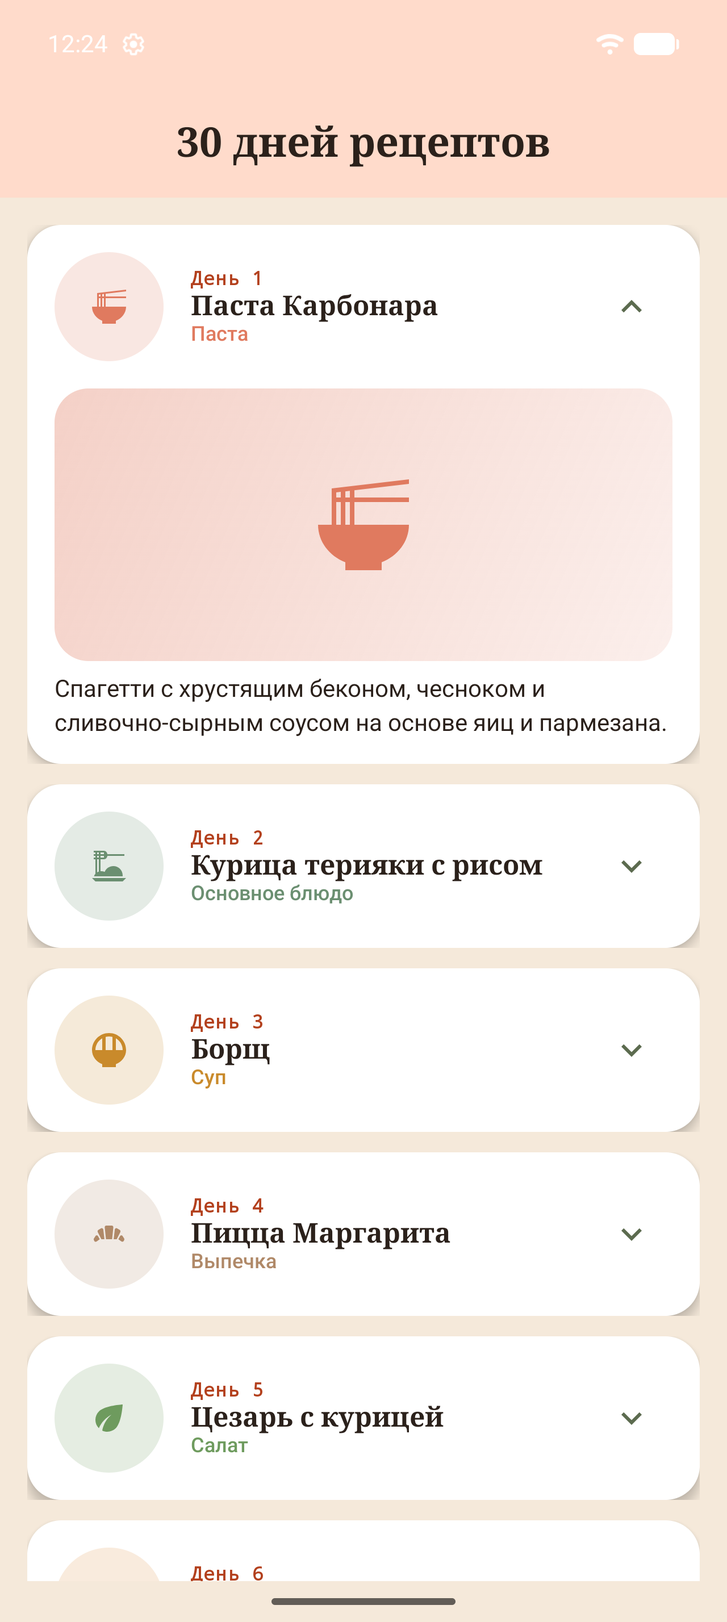
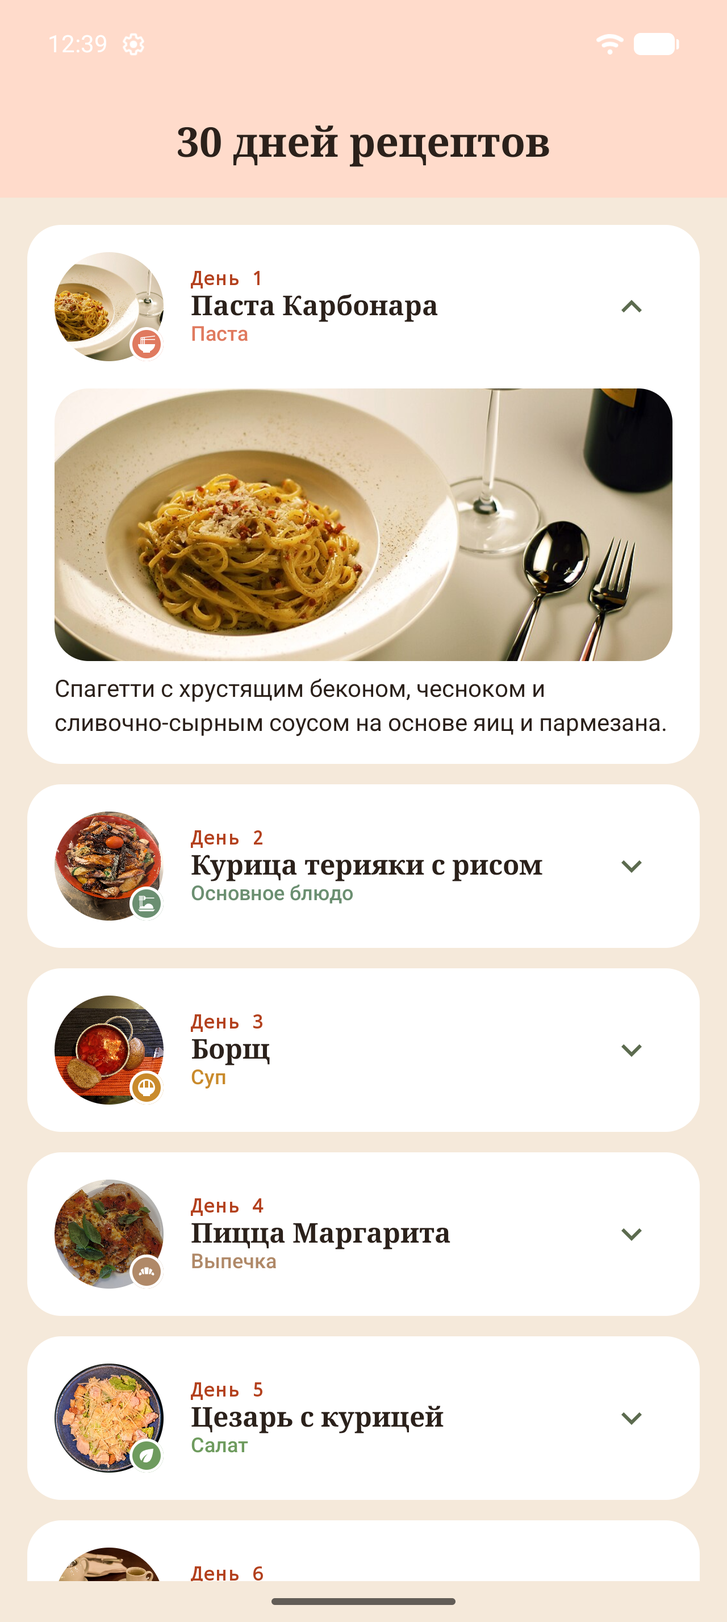
Remove card shadows, use real recipe photos from Wikimedia Commons
Set card elevation to 0dp so surfaces separate from the background
through color contrast alone instead of drop shadows.

Replace the category icon placeholders with real photos: download one
freely licensed (public domain/CC0/CC-BY/CC-BY-SA) photo per recipe
from Wikimedia Commons into drawable-nodpi, add imageResId to Recipe,
and show it as a circular thumbnail (with a small category icon badge)
in the collapsed row and full-width in the expanded view. Sources and
authors are recorded in PHOTO_ATTRIBUTIONS.md.

diff --git a/app/src/main/java/com/example/knrtu_mobile_systems/MainActivity.kt b/app/src/main/java/com/example/knrtu_mobile_systems/MainActivity.kt
@@ -7,13 +7,14 @@ import androidx.compose.animation.animateContentSize
 import androidx.compose.animation.core.Spring
 import androidx.compose.animation.core.animateFloatAsState
 import androidx.compose.animation.core.spring
+import androidx.compose.foundation.Image
 import androidx.compose.foundation.background
+import androidx.compose.foundation.border
 import androidx.compose.foundation.layout.Arrangement
 import androidx.compose.foundation.layout.Box
 import androidx.compose.foundation.layout.Column
 import androidx.compose.foundation.layout.PaddingValues
 import androidx.compose.foundation.layout.Row
-import androidx.compose.foundation.layout.Spacer
 import androidx.compose.foundation.layout.fillMaxSize
 import androidx.compose.foundation.layout.fillMaxWidth
 import androidx.compose.foundation.layout.height
@@ -44,8 +45,10 @@ import androidx.compose.ui.Alignment
 import androidx.compose.ui.Modifier
 import androidx.compose.ui.draw.clip
 import androidx.compose.ui.draw.rotate
-import androidx.compose.ui.graphics.Brush
+import androidx.compose.ui.graphics.Color
+import androidx.compose.ui.layout.ContentScale
 import androidx.compose.ui.res.dimensionResource
+import androidx.compose.ui.res.painterResource
 import androidx.compose.ui.res.stringResource
 import androidx.compose.ui.text.font.FontWeight
 import androidx.compose.ui.tooling.preview.Preview
@@ -106,7 +109,7 @@ fun RecipesApp() {
 
 /**
  * Expandable list item for a single day's recipe: a thumbnail, day/name/category always
- * visible, and a bigger picture plus the recipe description revealed on tap.
+ * visible, and a bigger photo plus the recipe description revealed on tap.
  */
 @Composable
 fun RecipeListItem(
@@ -119,6 +122,7 @@ fun RecipeListItem(
         label = "expandArrowRotation"
     )
 
+    // Flat card: no shadow, cards read against the background purely through color contrast.
     Card(
         modifier = modifier
             .fillMaxWidth()
@@ -130,7 +134,7 @@ fun RecipeListItem(
             ),
         shape = MaterialTheme.shapes.medium,
         colors = CardDefaults.cardColors(containerColor = MaterialTheme.colorScheme.surface),
-        elevation = CardDefaults.cardElevation(defaultElevation = 4.dp)
+        elevation = CardDefaults.cardElevation(defaultElevation = 0.dp)
     ) {
         Column(
             modifier = Modifier.padding(dimensionResource(R.dimen.padding_medium))
@@ -172,7 +176,7 @@ fun RecipeListItem(
                 }
             }
             if (expanded) {
-                RecipeBanner(
+                RecipePhoto(
                     recipe = recipe,
                     modifier = Modifier.padding(top = dimensionResource(R.dimen.padding_medium))
                 )
@@ -188,64 +192,74 @@ fun RecipeListItem(
 }
 
 /**
- * Small round "picture" of the dish shown in the collapsed row, tinted by its category.
+ * Round photo of the dish shown in the collapsed row, with a small category badge overlaid.
  */
 @Composable
 fun RecipeThumbnail(
     recipe: Recipe,
     modifier: Modifier = Modifier
 ) {
-    Box(
-        modifier = modifier
-            .size(dimensionResource(R.dimen.image_size))
-            .background(
-                color = recipe.category.color.copy(alpha = 0.18f),
-                shape = CircleShape
-            ),
-        contentAlignment = Alignment.Center
-    ) {
-        Icon(
-            imageVector = recipe.category.icon,
+    Box(modifier = modifier.size(dimensionResource(R.dimen.image_size))) {
+        Image(
+            painter = painterResource(recipe.imageResId),
             contentDescription = stringResource(
                 R.string.recipe_image_content_description,
                 stringResource(recipe.nameResId)
             ),
-            tint = recipe.category.color
+            contentScale = ContentScale.Crop,
+            modifier = Modifier
+                .fillMaxSize()
+                .clip(CircleShape)
+        )
+        CategoryBadge(
+            recipe = recipe,
+            modifier = Modifier.align(Alignment.BottomEnd)
         )
     }
 }
 
 /**
- * Large "picture" banner shown when a recipe is expanded.
+ * Large photo of the dish shown when a recipe is expanded.
  */
 @Composable
-fun RecipeBanner(
+fun RecipePhoto(
+    recipe: Recipe,
+    modifier: Modifier = Modifier
+) {
+    Image(
+        painter = painterResource(recipe.imageResId),
+        contentDescription = stringResource(
+            R.string.recipe_image_content_description,
+            stringResource(recipe.nameResId)
+        ),
+        contentScale = ContentScale.Crop,
+        modifier = modifier
+            .fillMaxWidth()
+            .height(dimensionResource(R.dimen.recipe_banner_height))
+            .clip(MaterialTheme.shapes.medium)
+    )
+}
+
+/**
+ * Small colored circle with the category icon, used as a badge on top of a recipe photo.
+ */
+@Composable
+fun CategoryBadge(
     recipe: Recipe,
     modifier: Modifier = Modifier
 ) {
     Box(
         modifier = modifier
-            .fillMaxWidth()
-            .height(dimensionResource(R.dimen.recipe_banner_height))
-            .clip(MaterialTheme.shapes.medium)
-            .background(
-                Brush.linearGradient(
-                    colors = listOf(
-                        recipe.category.color.copy(alpha = 0.35f),
-                        recipe.category.color.copy(alpha = 0.12f)
-                    )
-                )
-            ),
+            .size(20.dp)
+            .background(color = recipe.category.color, shape = CircleShape)
+            .border(1.5.dp, MaterialTheme.colorScheme.surface, CircleShape),
         contentAlignment = Alignment.Center
     ) {
         Icon(
             imageVector = recipe.category.icon,
-            contentDescription = stringResource(
-                R.string.recipe_image_content_description,
-                stringResource(recipe.nameResId)
-            ),
-            tint = recipe.category.color,
-            modifier = Modifier.size(64.dp)
+            contentDescription = null,
+            tint = Color.White,
+            modifier = Modifier.size(12.dp)
         )
     }
 }

diff --git a/app/src/main/java/com/example/knrtu_mobile_systems/data/Datasource.kt b/app/src/main/java/com/example/knrtu_mobile_systems/data/Datasource.kt
@@ -12,34 +12,34 @@ import com.example.knrtu_mobile_systems.model.RecipeCategory.SALAD
 import com.example.knrtu_mobile_systems.model.RecipeCategory.SOUP
 
 val recipes = listOf(
-    Recipe(1, R.string.recipe_name_1, R.string.recipe_description_1, PASTA),
-    Recipe(2, R.string.recipe_name_2, R.string.recipe_description_2, MAIN),
-    Recipe(3, R.string.recipe_name_3, R.string.recipe_description_3, SOUP),
-    Recipe(4, R.string.recipe_name_4, R.string.recipe_description_4, BAKING),
-    Recipe(5, R.string.recipe_name_5, R.string.recipe_description_5, SALAD),
-    Recipe(6, R.string.recipe_name_6, R.string.recipe_description_6, BREAKFAST),
-    Recipe(7, R.string.recipe_name_7, R.string.recipe_description_7, MAIN),
-    Recipe(8, R.string.recipe_name_8, R.string.recipe_description_8, SOUP),
-    Recipe(9, R.string.recipe_name_9, R.string.recipe_description_9, PASTA),
-    Recipe(10, R.string.recipe_name_10, R.string.recipe_description_10, BREAKFAST),
-    Recipe(11, R.string.recipe_name_11, R.string.recipe_description_11, MAIN),
-    Recipe(12, R.string.recipe_name_12, R.string.recipe_description_12, SOUP),
-    Recipe(13, R.string.recipe_name_13, R.string.recipe_description_13, SALAD),
-    Recipe(14, R.string.recipe_name_14, R.string.recipe_description_14, DESSERT),
-    Recipe(15, R.string.recipe_name_15, R.string.recipe_description_15, PASTA),
-    Recipe(16, R.string.recipe_name_16, R.string.recipe_description_16, MAIN),
-    Recipe(17, R.string.recipe_name_17, R.string.recipe_description_17, BREAKFAST),
-    Recipe(18, R.string.recipe_name_18, R.string.recipe_description_18, MAIN),
-    Recipe(19, R.string.recipe_name_19, R.string.recipe_description_19, SOUP),
-    Recipe(20, R.string.recipe_name_20, R.string.recipe_description_20, FASTFOOD),
-    Recipe(21, R.string.recipe_name_21, R.string.recipe_description_21, PASTA),
-    Recipe(22, R.string.recipe_name_22, R.string.recipe_description_22, MAIN),
-    Recipe(23, R.string.recipe_name_23, R.string.recipe_description_23, SALAD),
-    Recipe(24, R.string.recipe_name_24, R.string.recipe_description_24, BREAKFAST),
-    Recipe(25, R.string.recipe_name_25, R.string.recipe_description_25, MAIN),
-    Recipe(26, R.string.recipe_name_26, R.string.recipe_description_26, BAKING),
-    Recipe(27, R.string.recipe_name_27, R.string.recipe_description_27, MAIN),
-    Recipe(28, R.string.recipe_name_28, R.string.recipe_description_28, DESSERT),
-    Recipe(29, R.string.recipe_name_29, R.string.recipe_description_29, FASTFOOD),
-    Recipe(30, R.string.recipe_name_30, R.string.recipe_description_30, MAIN),
+    Recipe(1, R.string.recipe_name_1, R.string.recipe_description_1, R.drawable.recipe_photo_1, PASTA),
+    Recipe(2, R.string.recipe_name_2, R.string.recipe_description_2, R.drawable.recipe_photo_2, MAIN),
+    Recipe(3, R.string.recipe_name_3, R.string.recipe_description_3, R.drawable.recipe_photo_3, SOUP),
+    Recipe(4, R.string.recipe_name_4, R.string.recipe_description_4, R.drawable.recipe_photo_4, BAKING),
+    Recipe(5, R.string.recipe_name_5, R.string.recipe_description_5, R.drawable.recipe_photo_5, SALAD),
+    Recipe(6, R.string.recipe_name_6, R.string.recipe_description_6, R.drawable.recipe_photo_6, BREAKFAST),
+    Recipe(7, R.string.recipe_name_7, R.string.recipe_description_7, R.drawable.recipe_photo_7, MAIN),
+    Recipe(8, R.string.recipe_name_8, R.string.recipe_description_8, R.drawable.recipe_photo_8, SOUP),
+    Recipe(9, R.string.recipe_name_9, R.string.recipe_description_9, R.drawable.recipe_photo_9, PASTA),
+    Recipe(10, R.string.recipe_name_10, R.string.recipe_description_10, R.drawable.recipe_photo_10, BREAKFAST),
+    Recipe(11, R.string.recipe_name_11, R.string.recipe_description_11, R.drawable.recipe_photo_11, MAIN),
+    Recipe(12, R.string.recipe_name_12, R.string.recipe_description_12, R.drawable.recipe_photo_12, SOUP),
+    Recipe(13, R.string.recipe_name_13, R.string.recipe_description_13, R.drawable.recipe_photo_13, SALAD),
+    Recipe(14, R.string.recipe_name_14, R.string.recipe_description_14, R.drawable.recipe_photo_14, DESSERT),
+    Recipe(15, R.string.recipe_name_15, R.string.recipe_description_15, R.drawable.recipe_photo_15, PASTA),
+    Recipe(16, R.string.recipe_name_16, R.string.recipe_description_16, R.drawable.recipe_photo_16, MAIN),
+    Recipe(17, R.string.recipe_name_17, R.string.recipe_description_17, R.drawable.recipe_photo_17, BREAKFAST),
+    Recipe(18, R.string.recipe_name_18, R.string.recipe_description_18, R.drawable.recipe_photo_18, MAIN),
+    Recipe(19, R.string.recipe_name_19, R.string.recipe_description_19, R.drawable.recipe_photo_19, SOUP),
+    Recipe(20, R.string.recipe_name_20, R.string.recipe_description_20, R.drawable.recipe_photo_20, FASTFOOD),
+    Recipe(21, R.string.recipe_name_21, R.string.recipe_description_21, R.drawable.recipe_photo_21, PASTA),
+    Recipe(22, R.string.recipe_name_22, R.string.recipe_description_22, R.drawable.recipe_photo_22, MAIN),
+    Recipe(23, R.string.recipe_name_23, R.string.recipe_description_23, R.drawable.recipe_photo_23, SALAD),
+    Recipe(24, R.string.recipe_name_24, R.string.recipe_description_24, R.drawable.recipe_photo_24, BREAKFAST),
+    Recipe(25, R.string.recipe_name_25, R.string.recipe_description_25, R.drawable.recipe_photo_25, MAIN),
+    Recipe(26, R.string.recipe_name_26, R.string.recipe_description_26, R.drawable.recipe_photo_26, BAKING),
+    Recipe(27, R.string.recipe_name_27, R.string.recipe_description_27, R.drawable.recipe_photo_27, MAIN),
+    Recipe(28, R.string.recipe_name_28, R.string.recipe_description_28, R.drawable.recipe_photo_28, DESSERT),
+    Recipe(29, R.string.recipe_name_29, R.string.recipe_description_29, R.drawable.recipe_photo_29, FASTFOOD),
+    Recipe(30, R.string.recipe_name_30, R.string.recipe_description_30, R.drawable.recipe_photo_30, MAIN),
 )

diff --git a/app/src/main/java/com/example/knrtu_mobile_systems/model/Recipe.kt b/app/src/main/java/com/example/knrtu_mobile_systems/model/Recipe.kt
@@ -1,5 +1,6 @@
 package com.example.knrtu_mobile_systems.model
 
+import androidx.annotation.DrawableRes
 import androidx.annotation.StringRes
 import androidx.compose.material.icons.Icons
 import androidx.compose.material.icons.filled.BakeryDining
@@ -41,5 +42,6 @@ data class Recipe(
     val day: Int,
     @StringRes val nameResId: Int,
     @StringRes val descriptionResId: Int,
+    @DrawableRes val imageResId: Int,
     val category: RecipeCategory
 )

diff --git a/reports/Unit 3/Pathway3/Project Create a 30 Days App/PHOTO_ATTRIBUTIONS.md b/reports/Unit 3/Pathway3/Project Create a 30 Days App/PHOTO_ATTRIBUTIONS.md
@@ -1,0 +1,39 @@
+# Источники фотографий рецептов
+
+Все 30 фотографий (`app/src/main/res/drawable-nodpi/recipe_photo_1.jpg` … `recipe_photo_30.jpg`)
+загружены с [Wikimedia Commons](https://commons.wikimedia.org) — файлы там размещаются только
+на условиях свободных лицензий (Public domain, CC0, CC BY, CC BY-SA), что подходит для учебного
+некоммерческого проекта. Ниже — источник и автор каждой фотографии.
+
+| День | Файл | Название на Commons | Автор | Лицензия | Источник |
+|---|---|---|---|---|---|
+| 1 | recipe_photo_1.jpg | File:Spaghetti alla Carbonara.jpg | Mattes Boch (Mboch on English Wikipedia) | Public domain | [Wikimedia Commons](https://commons.wikimedia.org/wiki/File:Spaghetti_alla_Carbonara.jpg) |
+| 2 | recipe_photo_2.jpg | File:Donburi Rice bowl of Chicken Teriyaki with Tomato.jpg | TechnoKittyCat | CC0 | [Wikimedia Commons](https://commons.wikimedia.org/wiki/File:Donburi_Rice_bowl_of_Chicken_Teriyaki_with_Tomato.jpg) |
+| 3 | recipe_photo_3.jpg | File:Borscht, Rostov-on-Don, Russia.jpg | Vyacheslav Argenberg | CC BY 4.0 | [Wikimedia Commons](https://commons.wikimedia.org/wiki/File:Borscht,_Rostov-on-Don,_Russia.jpg) |
+| 4 | recipe_photo_4.jpg | File:Margherita pizza on plate.jpg | Shisma | CC BY 4.0 | [Wikimedia Commons](https://commons.wikimedia.org/wiki/File:Margherita_pizza_on_plate.jpg) |
+| 5 | recipe_photo_5.jpg | File:Caesar salad with chicken, homemade - Massachusetts.jpg | Daderot | CC0 | [Wikimedia Commons](https://commons.wikimedia.org/wiki/File:Caesar_salad_with_chicken,_homemade_-_Massachusetts.jpg) |
+| 6 | recipe_photo_6.jpg | File:Russian blini.jpg | Ninaras | CC BY 4.0 | [Wikimedia Commons](https://commons.wikimedia.org/wiki/File:Russian_blini.jpg) |
+| 7 | recipe_photo_7.jpg | File:Afghan Zamarod Palaw (Emerald Pilaf) with a side of Meat in Sour Cherry Sauce.jpg | Zimistani | CC0 | [Wikimedia Commons](https://commons.wikimedia.org/wiki/File:Afghan_Zamarod_Palaw_(Emerald_Pilaf)_%D8%B2%D9%85%D8%B1%D8%AF_%D9%BE%D9%84%D9%88_with_a_side_of_Meat_in_Sour_Cherry_Sauce.jpg) |
+| 8 | recipe_photo_8.jpg | File:Saizeriya cream of mushroom soup.jpg | Fumikas Sagisavas | CC0 | [Wikimedia Commons](https://commons.wikimedia.org/wiki/File:Saizeriya_cream_of_mushroom_soup.jpg) |
+| 9 | recipe_photo_9.jpg | File:Halal Beef Lasagne and Cauliflowers - Foodilic 2024-08-12.jpg | Andy Li | CC0 | [Wikimedia Commons](https://commons.wikimedia.org/wiki/File:Halal_Beef_Lasagne_and_Cauliflowers_-_Foodilic_2024-08-12.jpg) |
+| 10 | recipe_photo_10.jpg | File:Shakshuka (Unsplash).jpg | Jarosław Ceborski jarson | CC0 | [Wikimedia Commons](https://commons.wikimedia.org/wiki/File:Shakshuka_(Unsplash).jpg) |
+| 11 | recipe_photo_11.jpg | File:Kotlet z piersi kurczaka w panierce z ziemniakami i mizerią - 2025.02.08.jpg | Aw58 | CC BY 4.0 | [Wikimedia Commons](https://commons.wikimedia.org/wiki/File:Kotlet_z_piersi_kurczaka_w_panierce_z_ziemniakami_i_mizeri%C4%85_-_2025.02.08.jpg) |
+| 12 | recipe_photo_12.jpg | File:Mushrooms Tom Yum, Duck Pa-naeng, and Thai Jasmine Rice - Sawadee Thai Restaurant 2024-10-05.jpg | Andy Li | CC0 | [Wikimedia Commons](https://commons.wikimedia.org/wiki/File:Mushrooms_Tom_Yum,_Duck_Pa-naeng,_and_Thai_Jasmine_Rice_-_Sawadee_Thai_Restaurant_2024-10-05.jpg) |
+| 13 | recipe_photo_13.jpg | File:Greek Salad Choriatiki.jpg | zone41 (Flickr) | CC BY 2.0 | [Wikimedia Commons](https://commons.wikimedia.org/wiki/File:Greek_Salad_Choriatiki.jpg) |
+| 14 | recipe_photo_14.jpg | File:New York cheesecake 3.jpg | Muago | CC0 | [Wikimedia Commons](https://commons.wikimedia.org/wiki/File:New_York_cheesecake_3.jpg) |
+| 15 | recipe_photo_15.jpg | File:Pasta met zalm en rucola.jpg | Jw2c | Public domain | [Wikimedia Commons](https://commons.wikimedia.org/wiki/File:Pasta_met_zalm_en_rucola.jpg) |
+| 16 | recipe_photo_16.jpg | File:Child Care Recipes (Team Nutrition) (20211103-FNS-UNC-0009).jpg | USDAgov | Public domain | [Wikimedia Commons](https://commons.wikimedia.org/wiki/File:Child_Care_Recipes_(Team_Nutiriton)_(20211103-FNS-UNC-0009).jpg) |
+| 17 | recipe_photo_17.jpg | File:Syrniki with fruits.jpg | Off-shell | CC BY-SA 4.0 | [Wikimedia Commons](https://commons.wikimedia.org/wiki/File:Syrniki_with_fruits.jpg) |
+| 18 | recipe_photo_18.jpg | File:Goulash hungarian.jpg | RitaE | CC0 | [Wikimedia Commons](https://commons.wikimedia.org/wiki/File:Goulash_hungarian.jpg) |
+| 19 | recipe_photo_19.jpg | File:Soljanka with olives.jpg | Roland Geider (Ogre) | Public domain | [Wikimedia Commons](https://commons.wikimedia.org/wiki/File:Soljanka_with_olives.jpg) |
+| 20 | recipe_photo_20.jpg | File:Big Mac hamburger.jpg | Evan-Amos | CC0 | [Wikimedia Commons](https://commons.wikimedia.org/wiki/File:Big_Mac_hamburger.jpg) |
+| 21 | recipe_photo_21.jpg | File:Spaghetti Bolognese - Figaros, Brighton 2023-10-06.jpg | Andy Li | CC0 | [Wikimedia Commons](https://commons.wikimedia.org/wiki/File:Spaghetti_Bolognese_-_Figaros,_Brighton_2023-10-06.jpg) |
+| 22 | recipe_photo_22.jpg | File:Butterfly chicken with roasted vegetables - Massachusetts.jpg | Daderot | CC0 | [Wikimedia Commons](https://commons.wikimedia.org/wiki/File:Butterfly_chicken_with_roasted_vegetables_-_Massachusetts.jpg) |
+| 23 | recipe_photo_23.jpg | File:2023 Sałatka jarzynowa (1).jpg | Jacek Halicki | CC BY-SA 4.0 | [Wikimedia Commons](https://commons.wikimedia.org/wiki/File:2023_Sa%C5%82atka_jarzynowa_(1).jpg) |
+| 24 | recipe_photo_24.jpg | File:Cheese & Mushroom Omelette - The Bystander Cafe 2023-08-07.jpg | Andy Li | CC0 | [Wikimedia Commons](https://commons.wikimedia.org/wiki/File:Cheese_%26_Mushroom_Omelette_-_The_Bystander_Cafe_2023-08-07.jpg) |
+| 25 | recipe_photo_25.jpg | File:Matjes Sahne Kartoffeln Salat.JPG | Benreis | CC BY 3.0 | [Wikimedia Commons](https://commons.wikimedia.org/wiki/File:Matjes_Sahne_Kartoffeln_Salat.JPG) |
+| 26 | recipe_photo_26.jpg | File:Khachapuri Adjaruli with egg and butter 2016.jpg | Eugene Krasnaok | CC BY 4.0 | [Wikimedia Commons](https://commons.wikimedia.org/wiki/File:Khachapuri_Adjaruli_with_egg_and_butter_2016.jpg) |
+| 27 | recipe_photo_27.jpg | File:Mushroom and Leek Risotto (49535206656).jpg | spurekar | CC BY 2.0 | [Wikimedia Commons](https://commons.wikimedia.org/wiki/File:Mushroom_and_Leek_Risotto_(49535206656).jpg) |
+| 28 | recipe_photo_28.jpg | File:Purezza's Legendary Tiramisu - Purezza 2024-12-17.jpg | Andy Li | CC0 | [Wikimedia Commons](https://commons.wikimedia.org/wiki/File:Purezza%27s_Legendary_Tiramisu_-_Purezza_2024-12-17.jpg) |
+| 29 | recipe_photo_29.jpg | File:Shawarma at Restaurante Síria, São Paulo, Brazil.jpg | Tet | CC0 | [Wikimedia Commons](https://commons.wikimedia.org/wiki/File:Shawarma_at_Restaurante_S%C3%ADria,_S%C3%A3o_Paulo,_Brazil.jpg) |
+| 30 | recipe_photo_30.jpg | File:Grilled steak with baked potato and gravy.jpg | hiwarz | CC BY 2.0 | [Wikimedia Commons](https://commons.wikimedia.org/wiki/File:Grilled_steak_with_baked_potato_and_gravy.jpg) |

diff --git a/reports/Unit 3/Pathway3/Report.md b/reports/Unit 3/Pathway3/Report.md
@@ -42,69 +42,8 @@
 # Project: Create a 30 Days App
 ---
 
-## Описание проекта
-
-В рамках капстоун-проекта юнита («Project: Create a 30 Days App») приложение-визитку
-«ветклиники» (Woof) было полностью заменено новым приложением **«30 дней рецептов»** —
-витриной из 30 рецептов, по одному на каждый день месяца, с указанием категории блюда.
-
-**Данные (30 дней):**
-
-| День | Рецепт | Категория |
-|---|---|---|
-| 1 | Паста Карбонара | Паста |
-| 2 | Курица терияки с рисом | Основное блюдо |
-| 3 | Борщ | Суп |
-| 4 | Пицца Маргарита | Выпечка |
-| 5 | Цезарь с курицей | Салат |
-| 6 | Блины с творогом | Завтрак |
-| 7 | Плов с курицей | Основное блюдо |
-| 8 | Крем-суп из шампиньонов | Суп |
-| 9 | Лазанья | Паста |
-| 10 | Шакшука | Завтрак |
-| 11 | Котлеты с картофельным пюре | Основное блюдо |
-| 12 | Том-ям | Суп |
-| 13 | Греческий салат | Салат |
-| 14 | Чизкейк | Десерт |
-| 15 | Паста с лососем | Паста |
-| 16 | Овощное рагу | Основное блюдо |
-| 17 | Сырники | Завтрак |
-| 18 | Гуляш с гречкой | Основное блюдо |
-| 19 | Солянка | Суп |
-| 20 | Домашние бургеры | Фастфуд |
-| 21 | Паста Болоньезе | Паста |
-| 22 | Запечённая курица с овощами | Основное блюдо |
-| 23 | Оливье | Салат |
-| 24 | Омлет с сыром и овощами | Завтрак |
-| 25 | Рыба в сливочном соусе | Основное блюдо |
-| 26 | Хачапури по-аджарски | Выпечка |
-| 27 | Грибной ризотто | Основное блюдо |
-| 28 | Тирамису | Десерт |
-| 29 | Домашняя шаурма | Фастфуд |
-| 30 | Стейк с запечённым картофелем | Основное блюдо |
-
-**Архитектура и данные:** `model/Recipe.kt` описывает `Recipe` (день, ресурс названия,
-категория) и `enum RecipeCategory` (8 категорий), каждая из которых несёт свою иконку
-(`material-icons-extended`) и акцентный цвет. `data/Datasource.kt` хранит список из 30
-рецептов, все текстовые строки вынесены в `strings.xml`.
-
-**UI:** `MainActivity.kt` строит `RecipesApp` — `Scaffold` с `CenterAlignedTopAppBar` и
-раскрывающимся списком `LazyColumn` из `RecipeListItem`. В свёрнутом виде строка
-показывает круглую цветную «фотографию» блюда (иконку категории), день, название и
-подпись категории, а стрелка справа поворачивается на 180°. По тапу карточка плавно
-увеличивается (`animateContentSize` + `spring`), открывая крупный цветной баннер-картинку
-блюда и текст рецепта (`recipe_description_*`) — то есть выпадающий список показывает
-не только название, но и картинку с рецептом.
-
-**Брендинг:** собственная цветовая схема на тёплой палитре (терракотовый/оливковый/
-горчичный) с явным контрастом между фоном экрана и белыми карточками (`surface`
-отделён от `background` в `ui/theme/Color.kt`), отдельные светлая и тёмная темы в
-`Theme.kt`, три шрифтовых стиля (`Serif` для заголовков, `SansSerif` для текста,
-`Monospace` для номера дня в `Type.kt`) и собственный набор скруглений карточек
-(`Shapes.kt`).
-
-Проект собран и проверен на эмуляторе (`assembleDebug` + запуск на устройстве) — список
-и раскрытая карточка с картинкой и рецептом:
+Фото блюд — реальные снимки со свободной лицензией с Wikimedia Commons, источники и авторы
+перечислены в [PHOTO_ATTRIBUTIONS.md](Project%20Create%20a%2030%20Days%20App/PHOTO_ATTRIBUTIONS.md).
 
 ![screenshot_list.png](Project%20Create%20a%2030%20Days%20App/screenshot_list.png)
 
